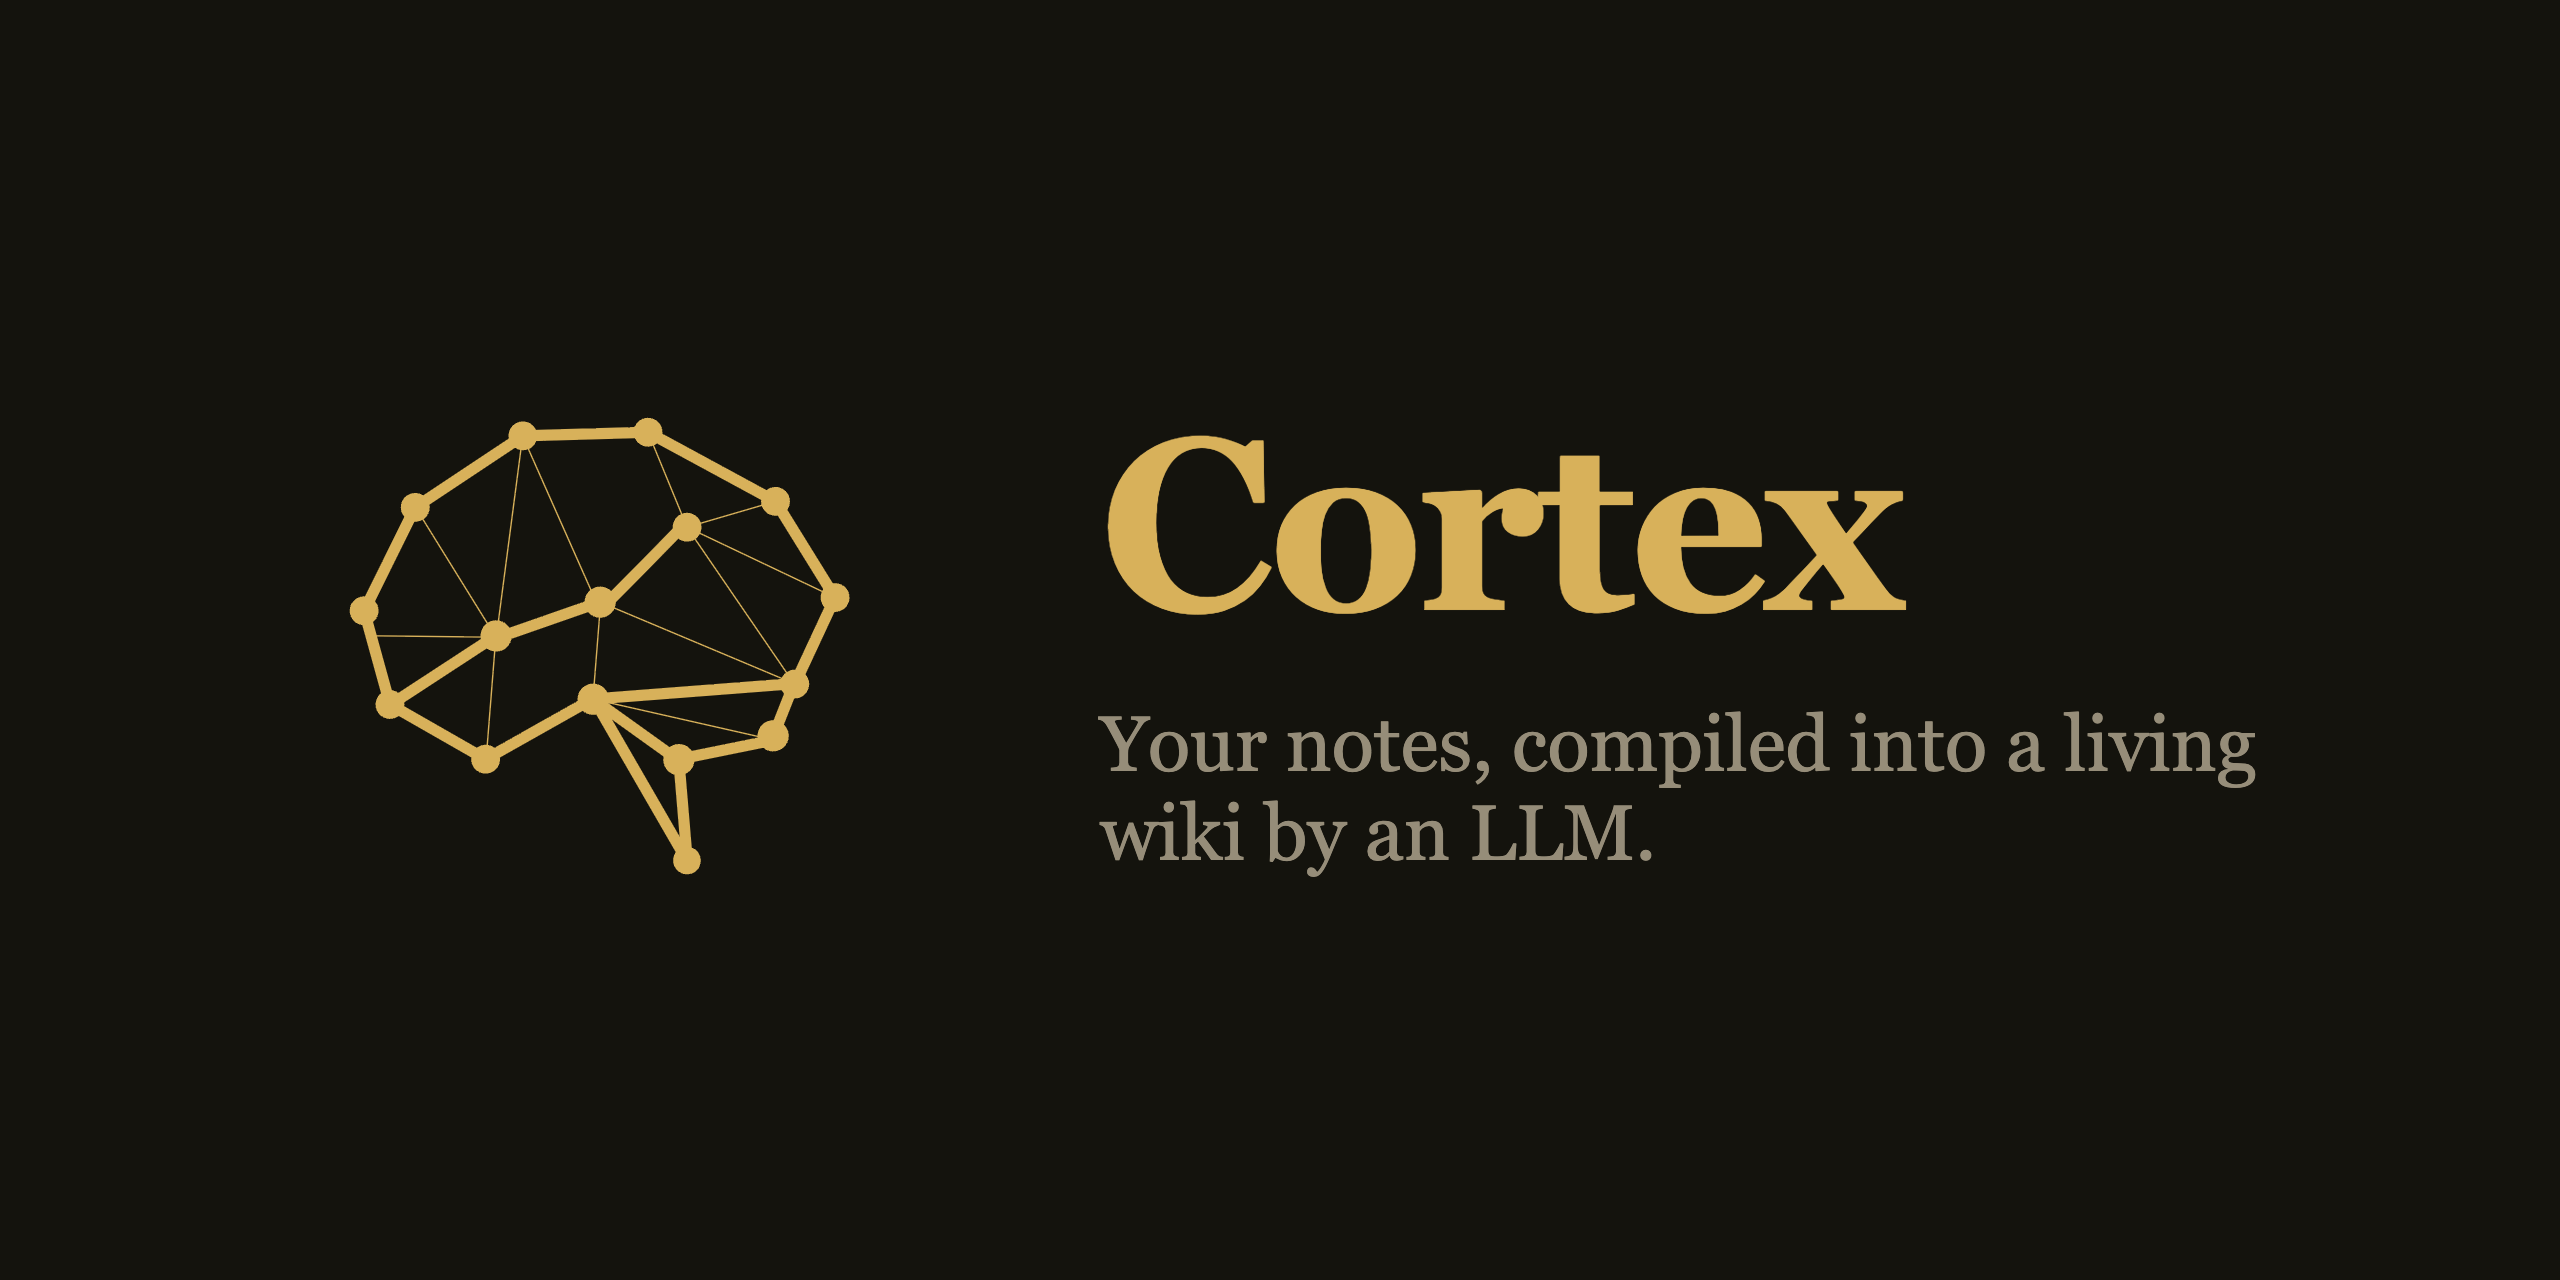
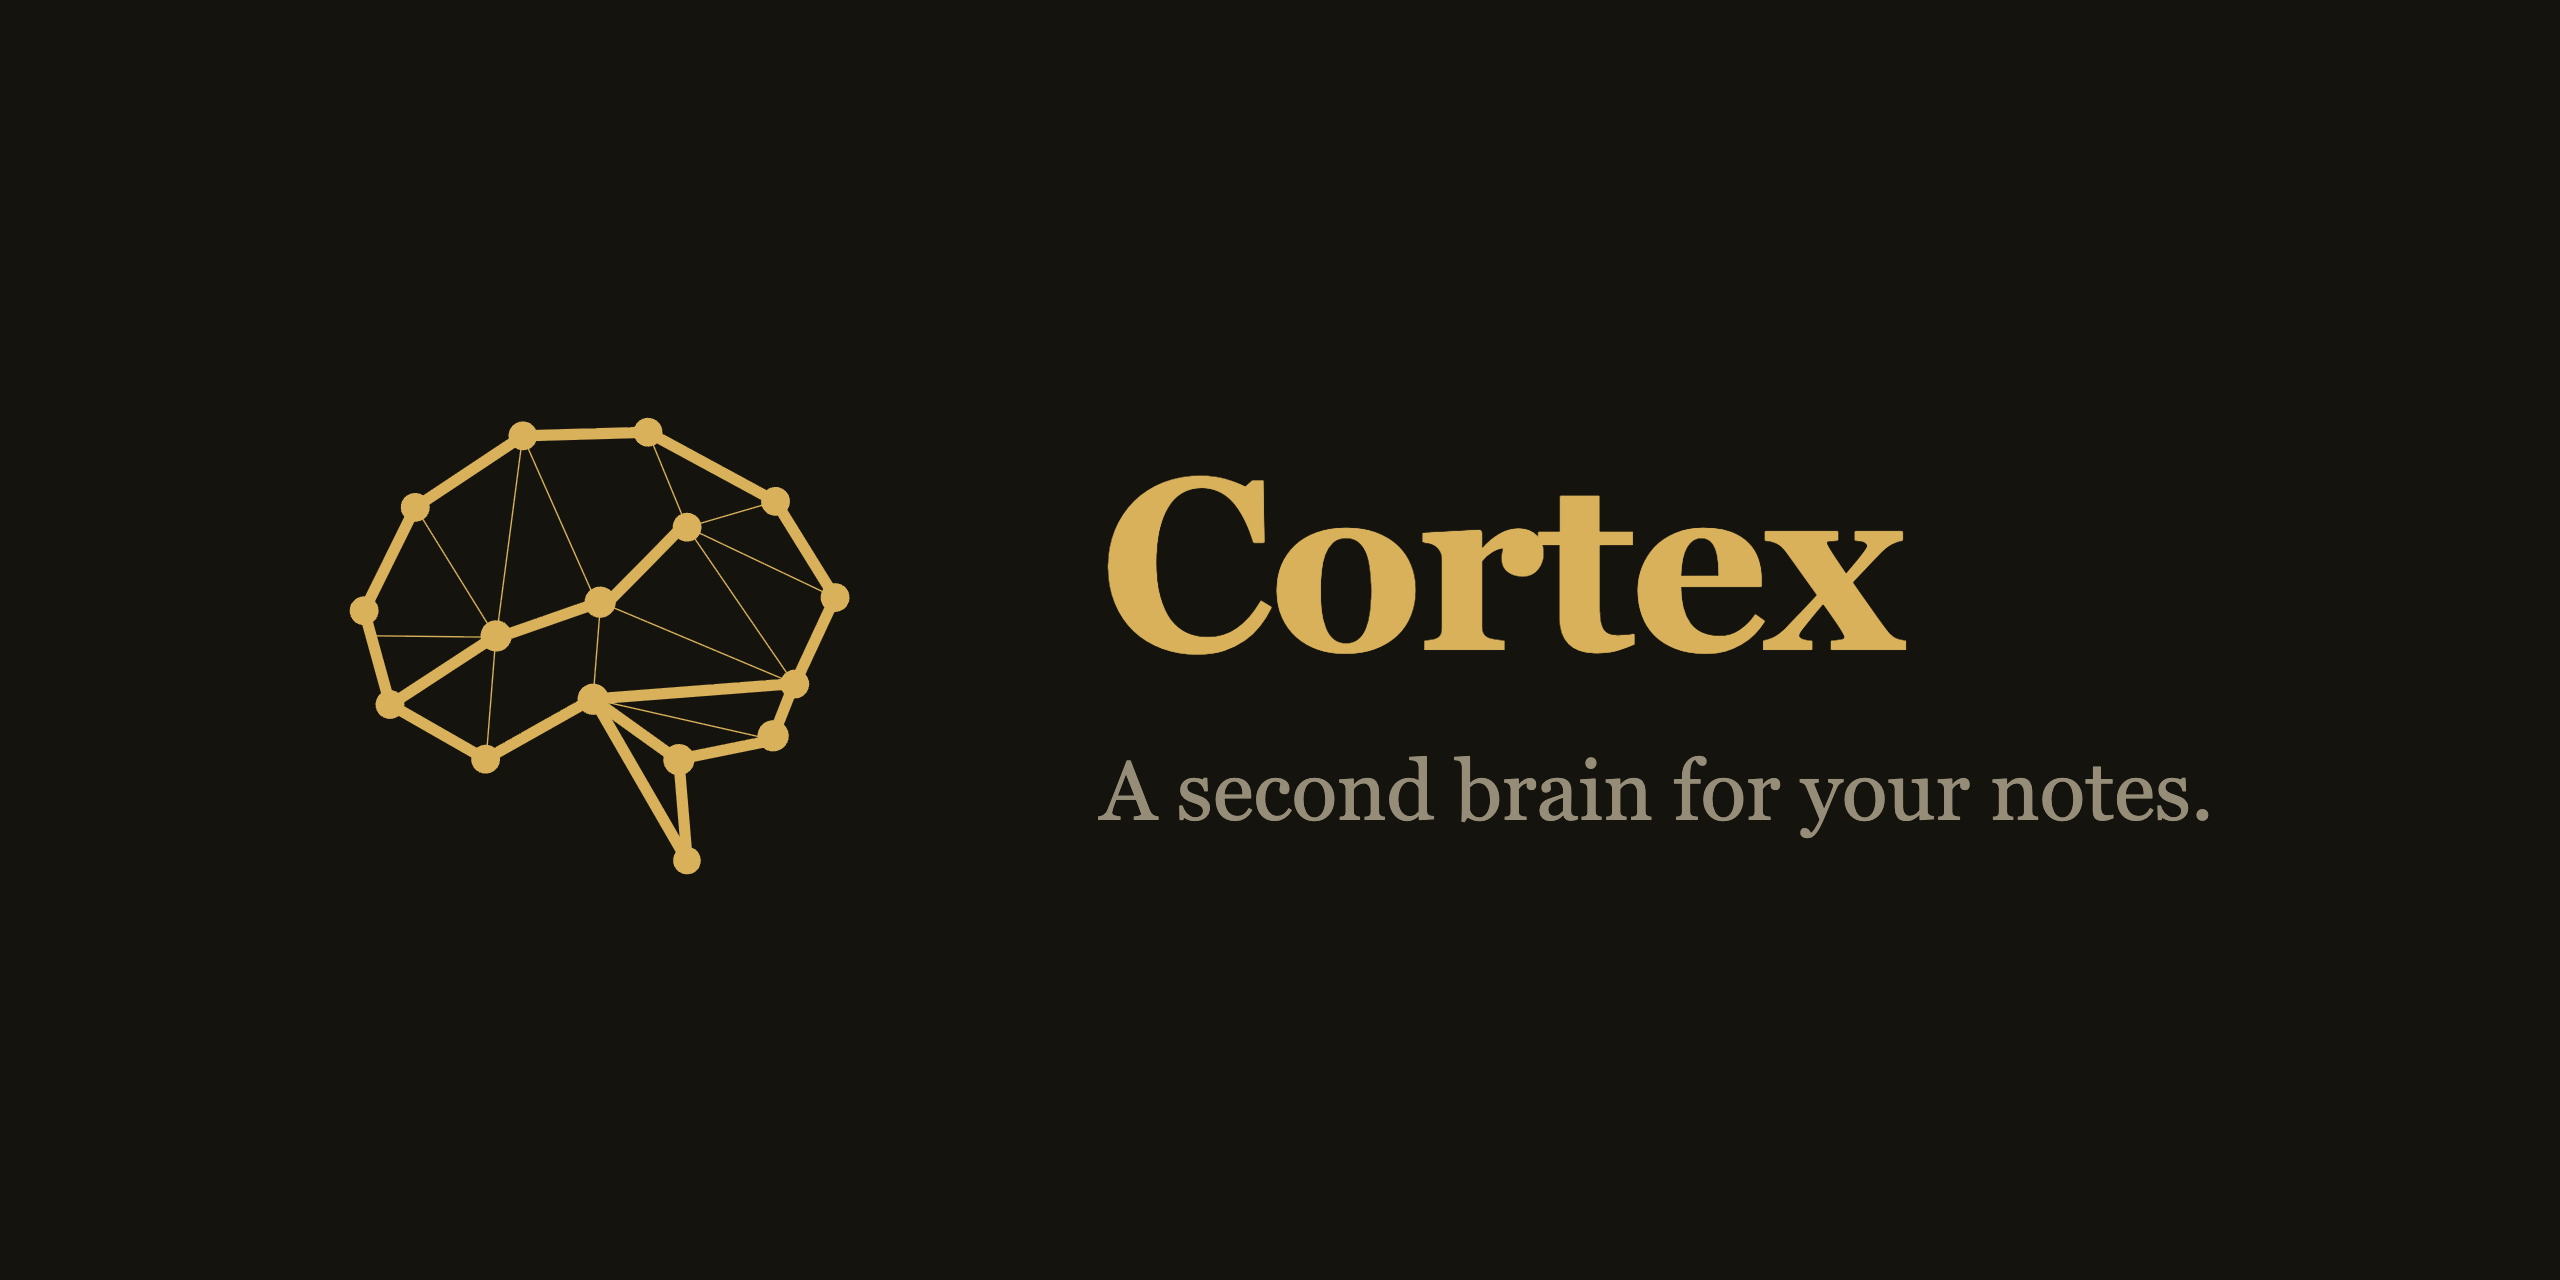
brand: slogan → 'A second brain for your notes'
Update the tagline across the banner (social-preview.png), the README hero alt
text, the PWA manifest description, and the page meta description.

Changed region(s): [[0.4062, 0.3438, 0.75, 0.5312], [0.4062, 0.5625, 0.875, 0.6875]]

diff --git a/web/app/layout.tsx b/web/app/layout.tsx
@@ -4,7 +4,7 @@ import { ConvexClientProvider } from "./ConvexClientProvider";
 
 export const metadata: Metadata = {
   title: "Cortex",
-  description: "Web viewer for the Cortex — pages, tasks, daily notes, and the op log.",
+  description: "A second brain for your notes.",
   manifest: "/manifest.webmanifest",
   // Make "Add to Home Screen" on iOS open full-screen like a native app.
   appleWebApp: {

diff --git a/web/app/manifest.ts b/web/app/manifest.ts
@@ -8,7 +8,7 @@ export default function manifest(): MetadataRoute.Manifest {
     id: "/",
     name: "Cortex",
     short_name: "Cortex",
-    description: "Living wiki — pages, tasks, and daily notes.",
+    description: "A second brain for your notes.",
     start_url: "/",
     scope: "/",
     display: "standalone",

diff --git a/README.md b/README.md
@@ -1,5 +1,5 @@
 <p align="center">
-  <img src="docs/images/social-preview.png" alt="Cortex — your notes, compiled into a living wiki by an LLM" width="820">
+  <img src="docs/images/social-preview.png" alt="Cortex — a second brain for your notes" width="820">
 </p>
 
 <p align="center">
